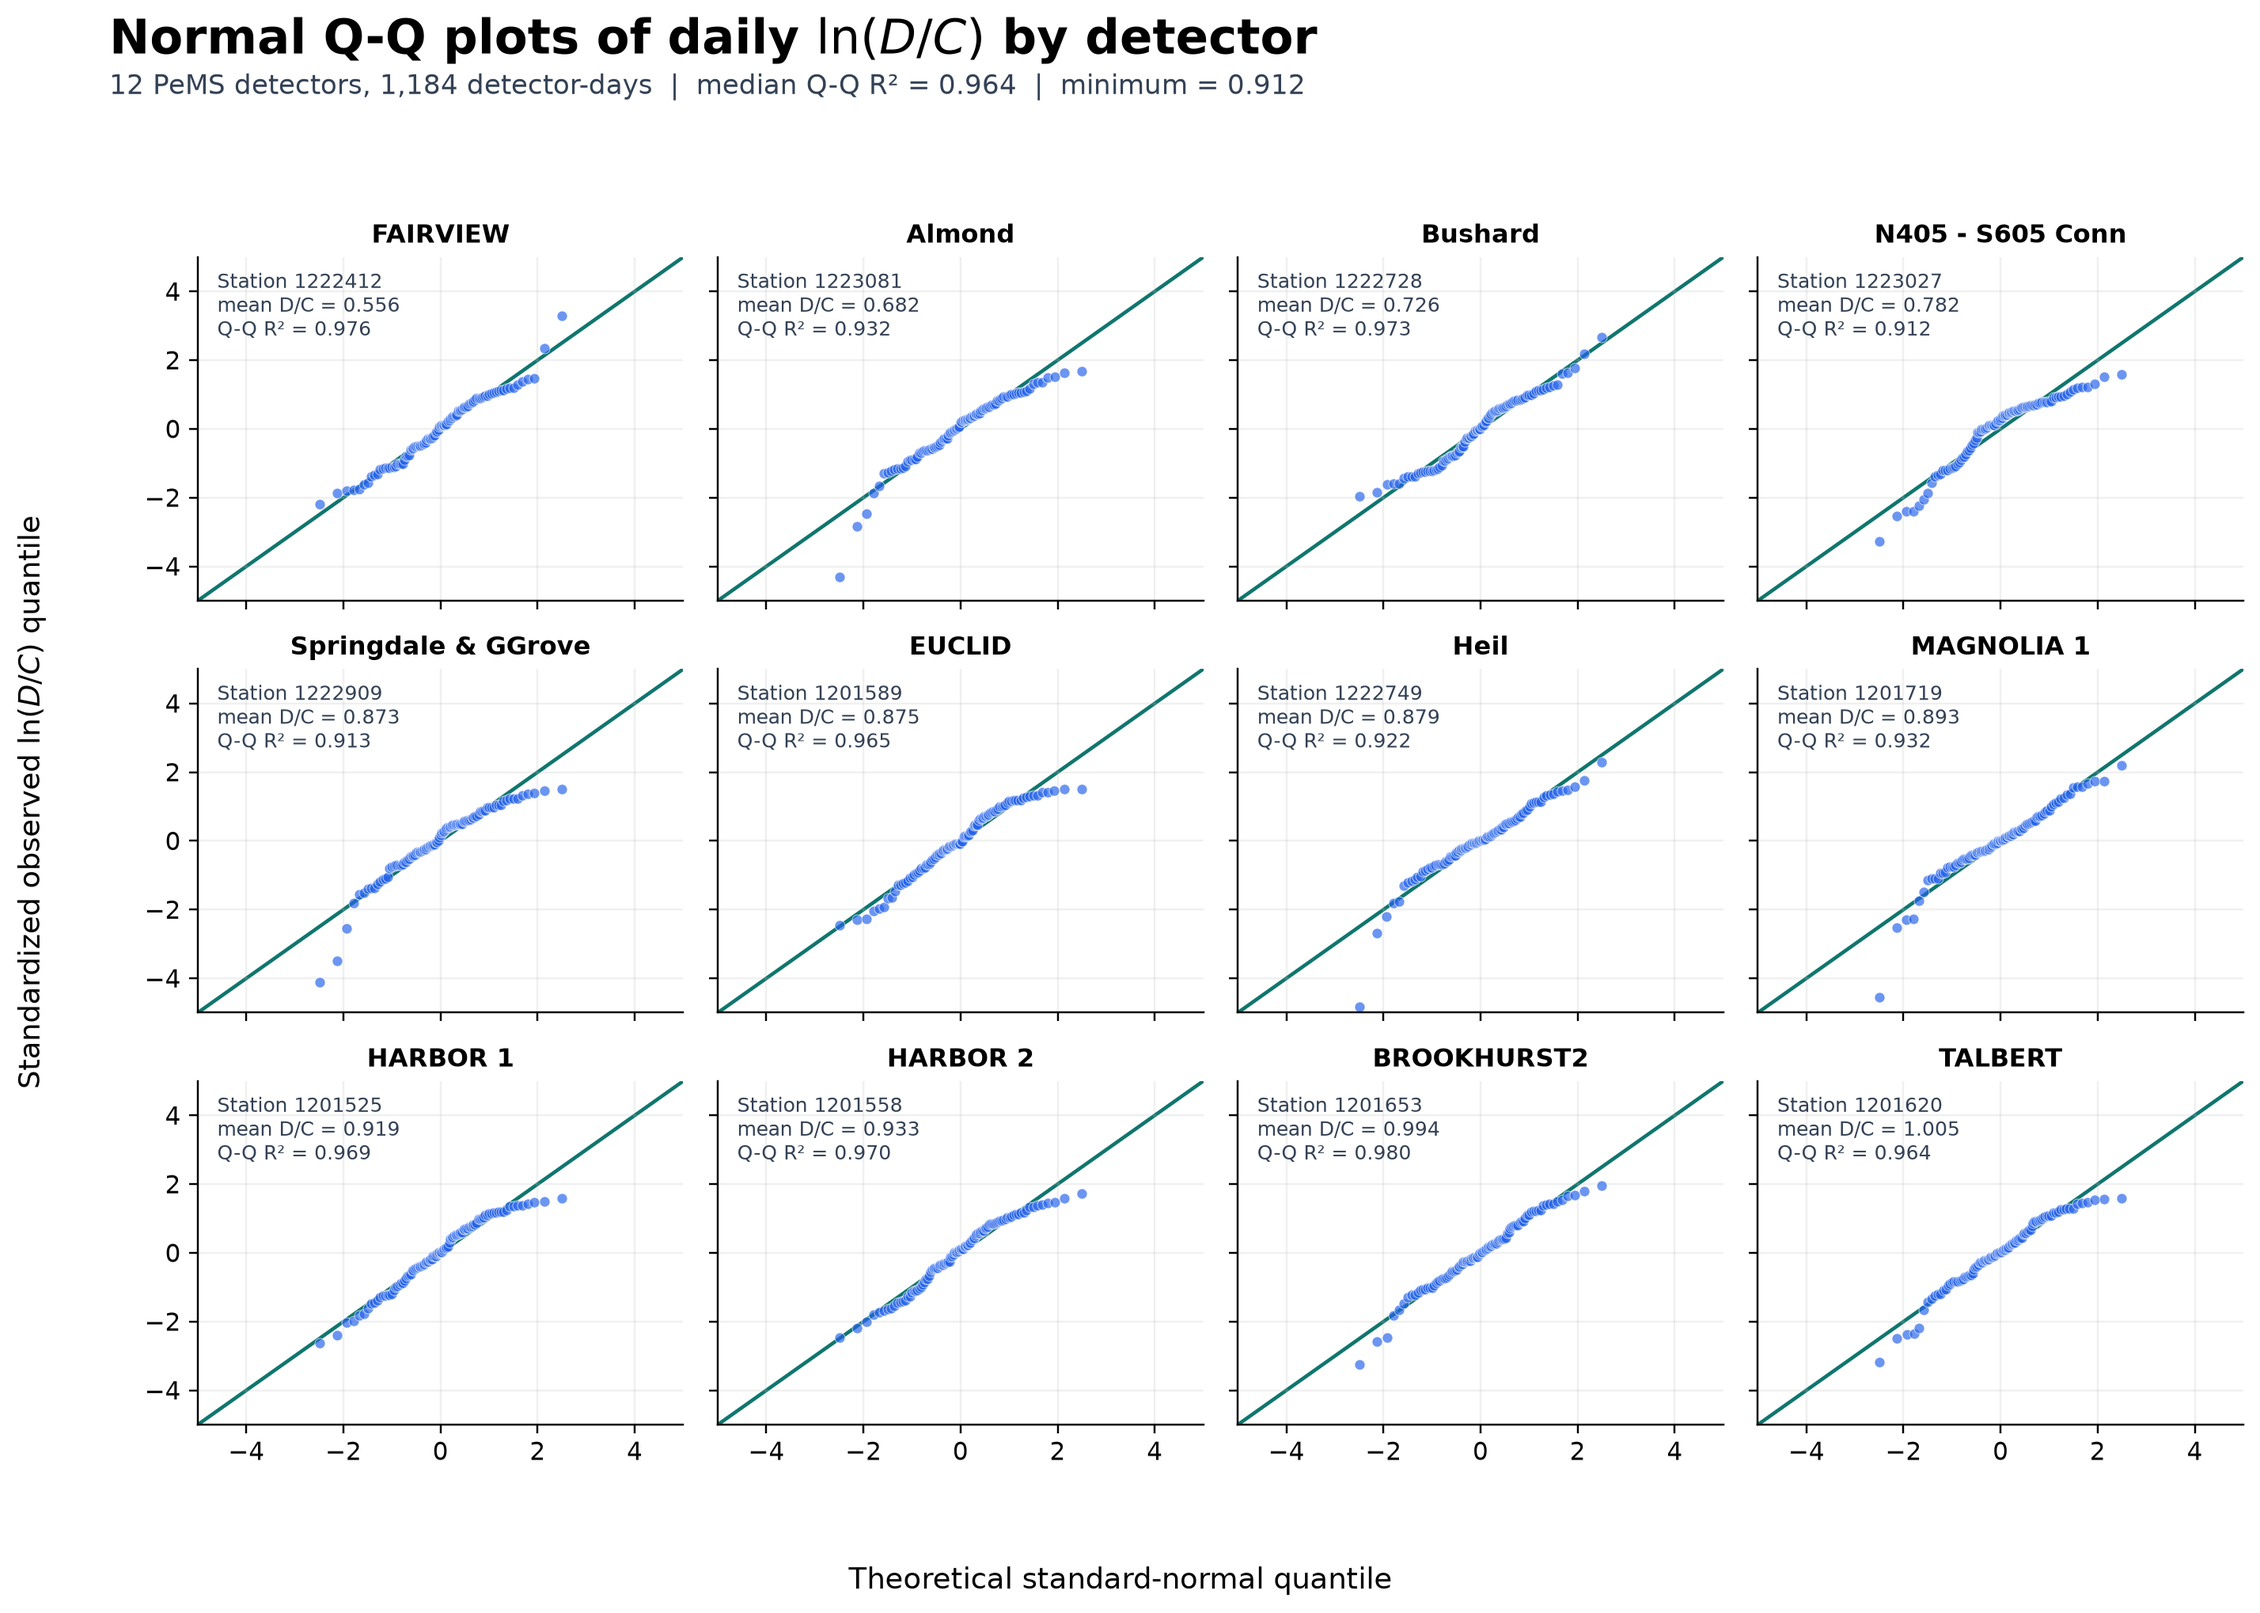
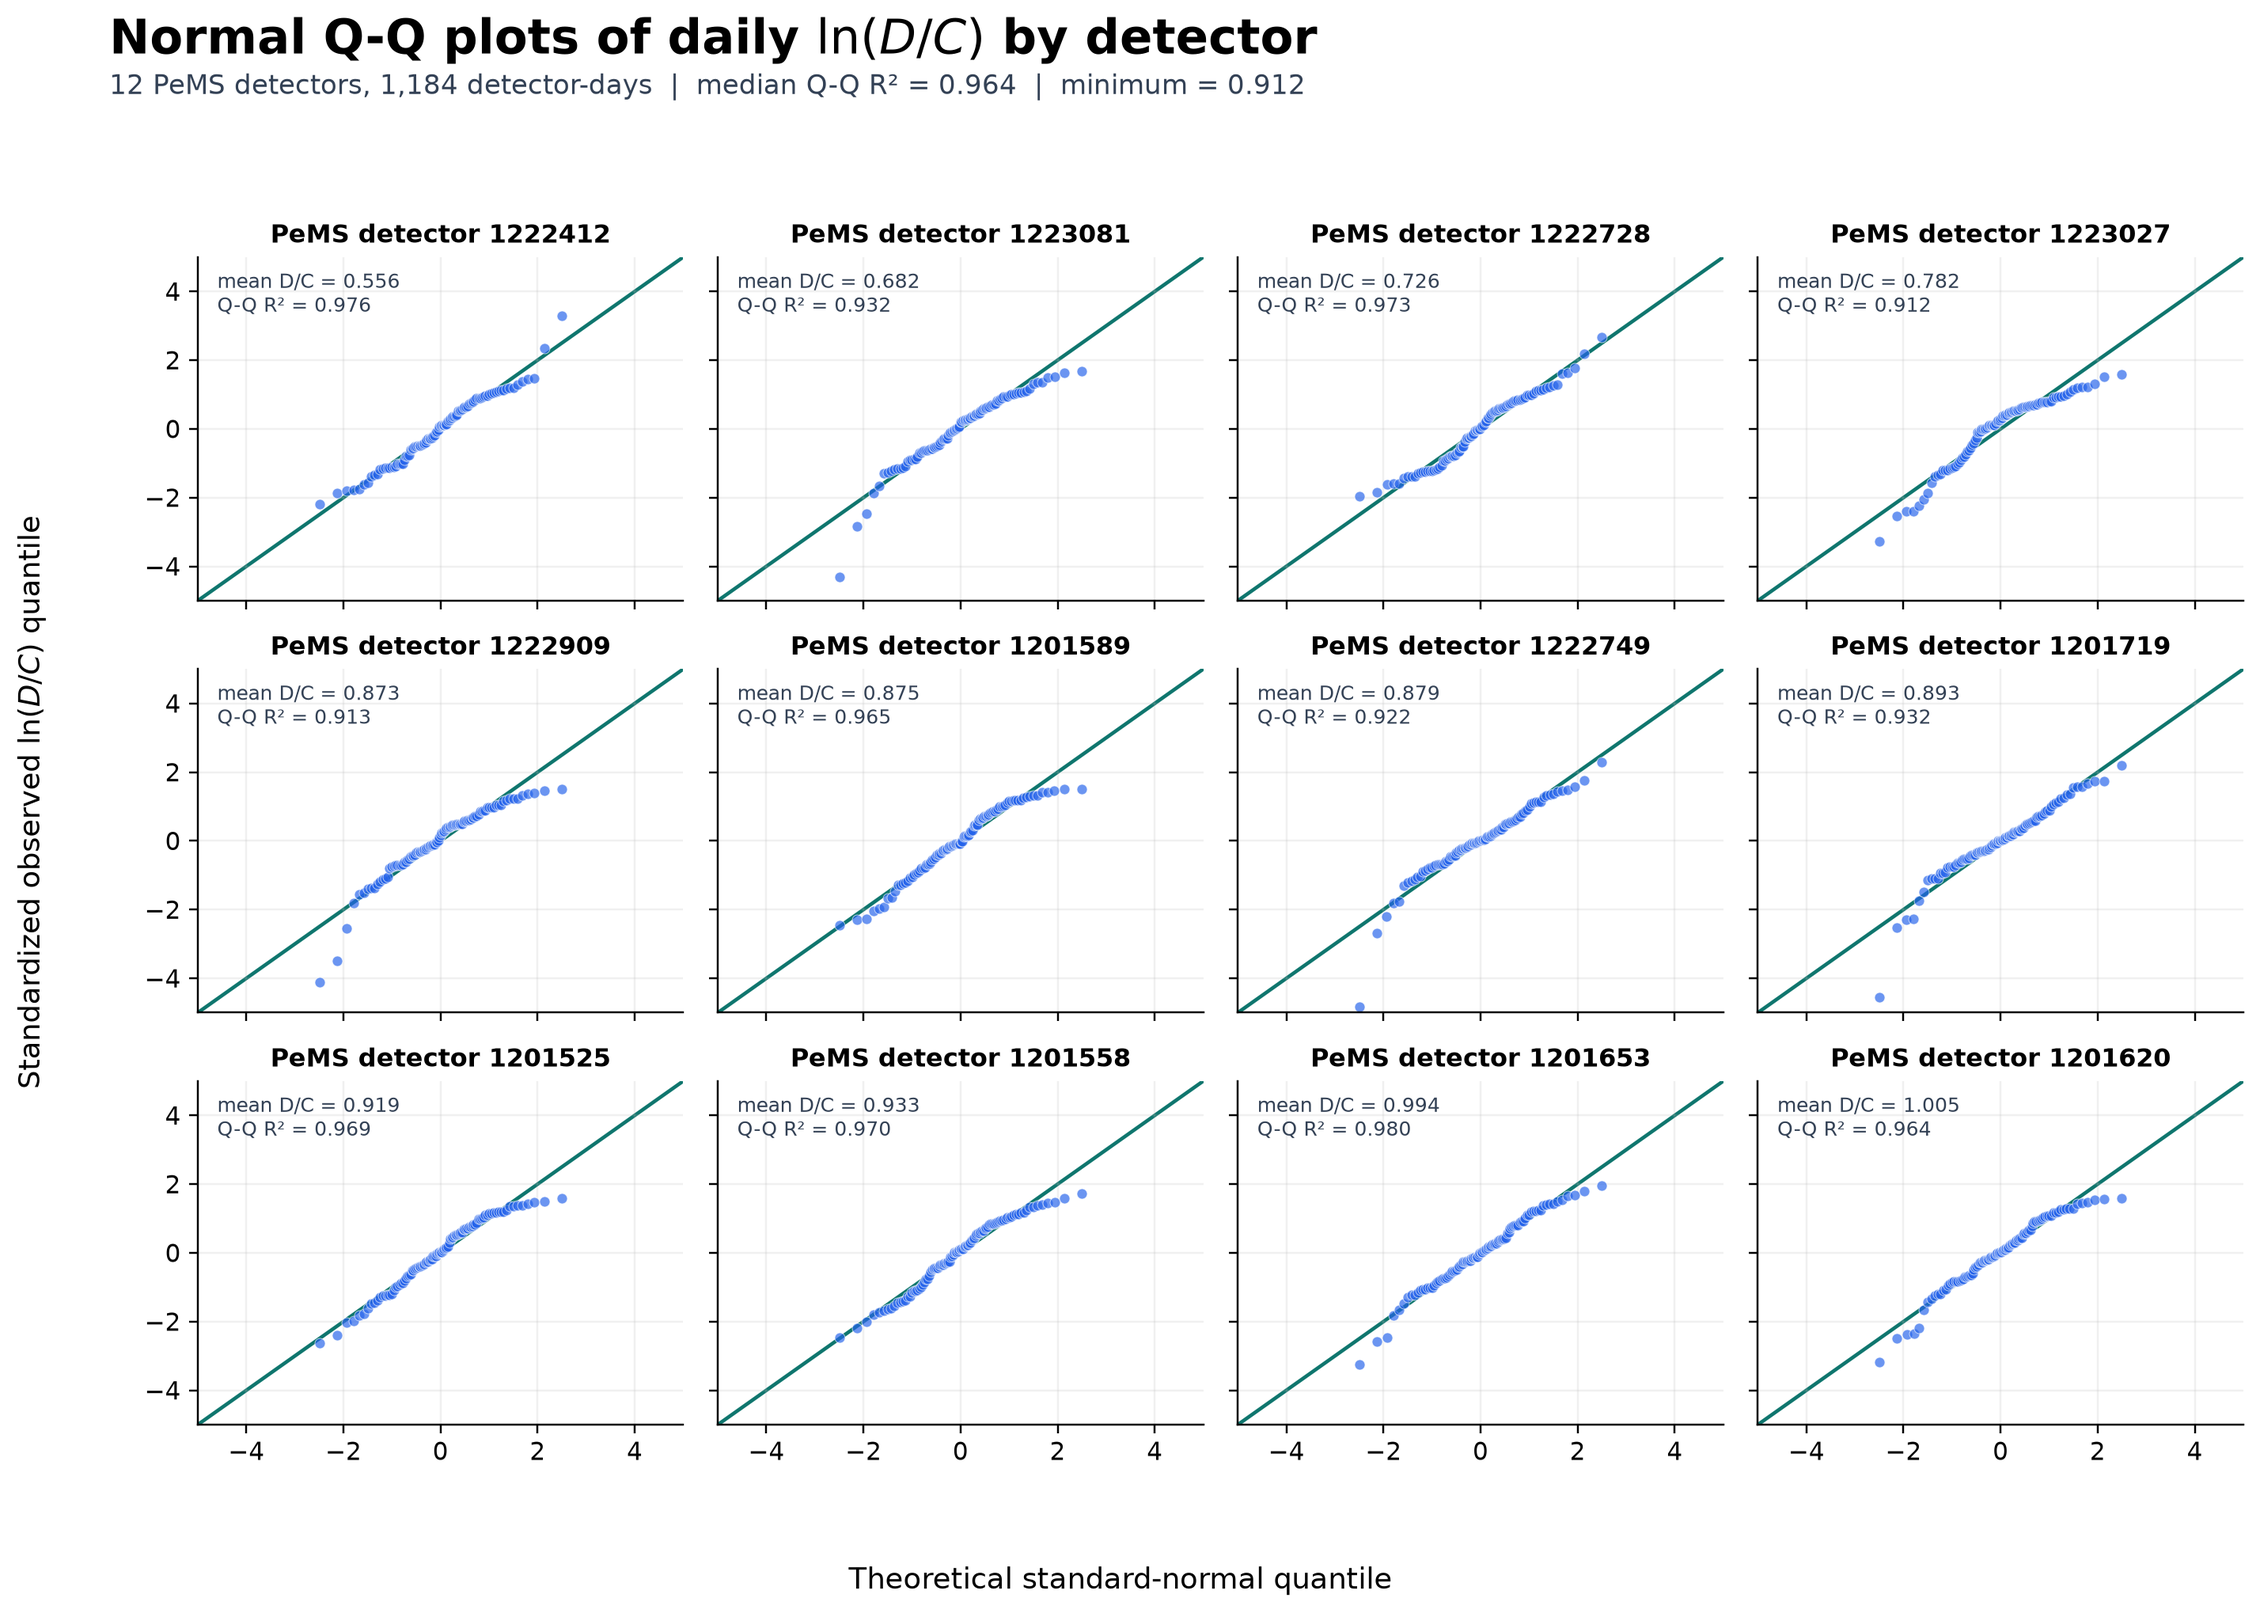
Label Q-Q panels by PeMS detector ID

diff --git a/scripts/b2_calibrate_sigma.py b/scripts/b2_calibrate_sigma.py
@@ -142,12 +142,15 @@ def make_lognormal_qq_figure(
             linewidth=0.3,
             zorder=2,
         )
-        axis.set_title(str(row.station_name), fontsize=10.5, weight="bold")
+        axis.set_title(
+            f"PeMS detector {int(row.station_id)}",
+            fontsize=10.5,
+            weight="bold",
+        )
         axis.text(
             0.04,
             0.96,
             (
-                f"Station {int(row.station_id)}\n"
                 f"mean D/C = {float(row.mean_dc):.3f}\n"
                 f"Q-Q R² = {float(row.normal_qq_r2):.3f}"
             ),
